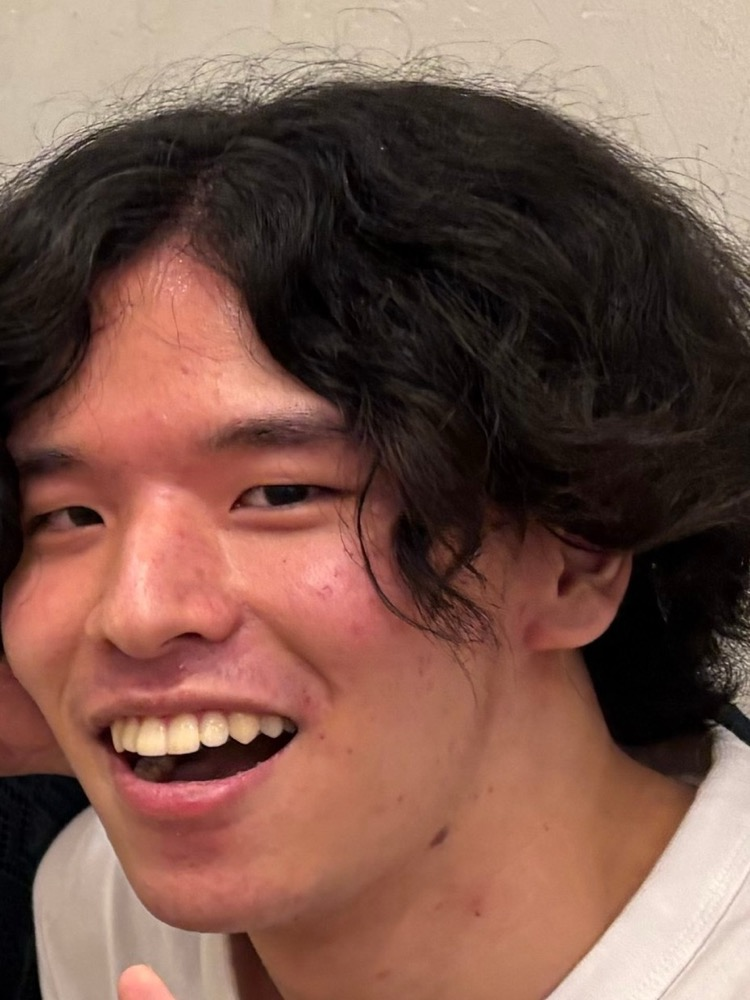
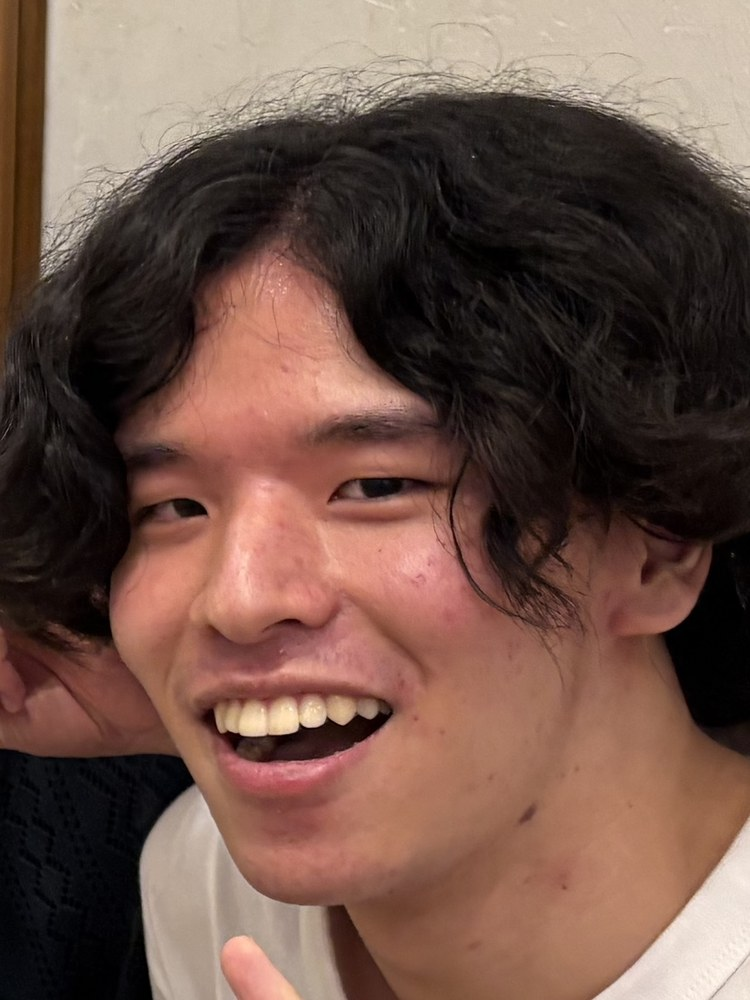
Members in side panel; Kudo photo; remove join page

diff --git a/public/style.css b/public/style.css
@@ -291,7 +291,7 @@ body.intro .town-name, body.intro .town-title { opacity: 0; }
 
 /* ---- 文章ページの背景の町（薄く敷く）。本文は上に重ねる ---- */
 .town-bg { position: fixed; inset: 0; width: 100%; height: 100%; display: block; z-index: 0; opacity: .34; pointer-events: none; }
-.subpage > .flip { position: relative; z-index: 1; }
+.subpage > .page-body { position: relative; z-index: 1; }   /* 文章ページ本体（.flip は名刺用なので使わない） */
 
 /* ---- タウンビューの季節の演出（全画面の 2D キャンバス。見出しや目印の下に敷く） ---- */
 .weather-fx { position: fixed; inset: 0; width: 100%; height: 100%; display: block; z-index: 1; pointer-events: none; transition: opacity .8s; }
@@ -310,3 +310,8 @@ body.intro .weather { opacity: 0; pointer-events: none; }
 
 /* ---- 装置・設備などのカード写真（正方形に切り抜いて上に置く） ---- */
 .card img { display: block; width: 100%; aspect-ratio: 1 / 1; object-fit: cover; border-radius: 12px; margin-bottom: 12px; background: var(--panel); }
+
+/* ---- 場所の板の中のメンバー: 名刺を縦一列に、区分（教員・学生・技術職員）は見出しで分ける ---- */
+.place-panel .card-flip-grid { grid-template-columns: 240px; }
+.place-panel .faculty-row { grid-template-columns: 240px 1fr; gap: 20px; }
+.place-panel .member-group { margin-bottom: 28px; }

diff --git a/src/lib/town.ts b/src/lib/town.ts
@@ -14,7 +14,6 @@ export const PLACES: Place[] = [
   { path: '/members',      place: 'メンバー',    placeEn: 'Members',      label: 'メンバー',    en: 'Members' },
   { path: '/publications', place: '業績',       placeEn: 'Publications', label: '業績',       en: 'Publications' },
   { path: '/equipment',    place: '装置・設備',  placeEn: 'Apparatus',    label: '装置・設備',  en: 'Apparatus' },
-  { path: '/join',         place: '進学・配属',  placeEn: 'Join us',      label: '進学・配属',  en: 'Join us' },
   { path: '/access',       place: 'アクセス',    placeEn: 'Access',       label: 'アクセス',    en: 'Access' },
 ];
 

diff --git a/src/scripts/diorama.js b/src/scripts/diorama.js
@@ -515,7 +515,6 @@ export function createDiorama(canvas, { themeName = 'yellow', seasonName = seaso
     about: [-17, 8, -20],                   // 研究棟の屋上
     members: [24, 6, 22],                   // キャッチボールの間（ボールの通り道の上）
     equipment: [12, 8, -8],                 // 電子顕微鏡
-    join: [-12, 7, 10],                     // 立て看板
     access: [14, 5, 12],                    // 郵便受け
   };
 
